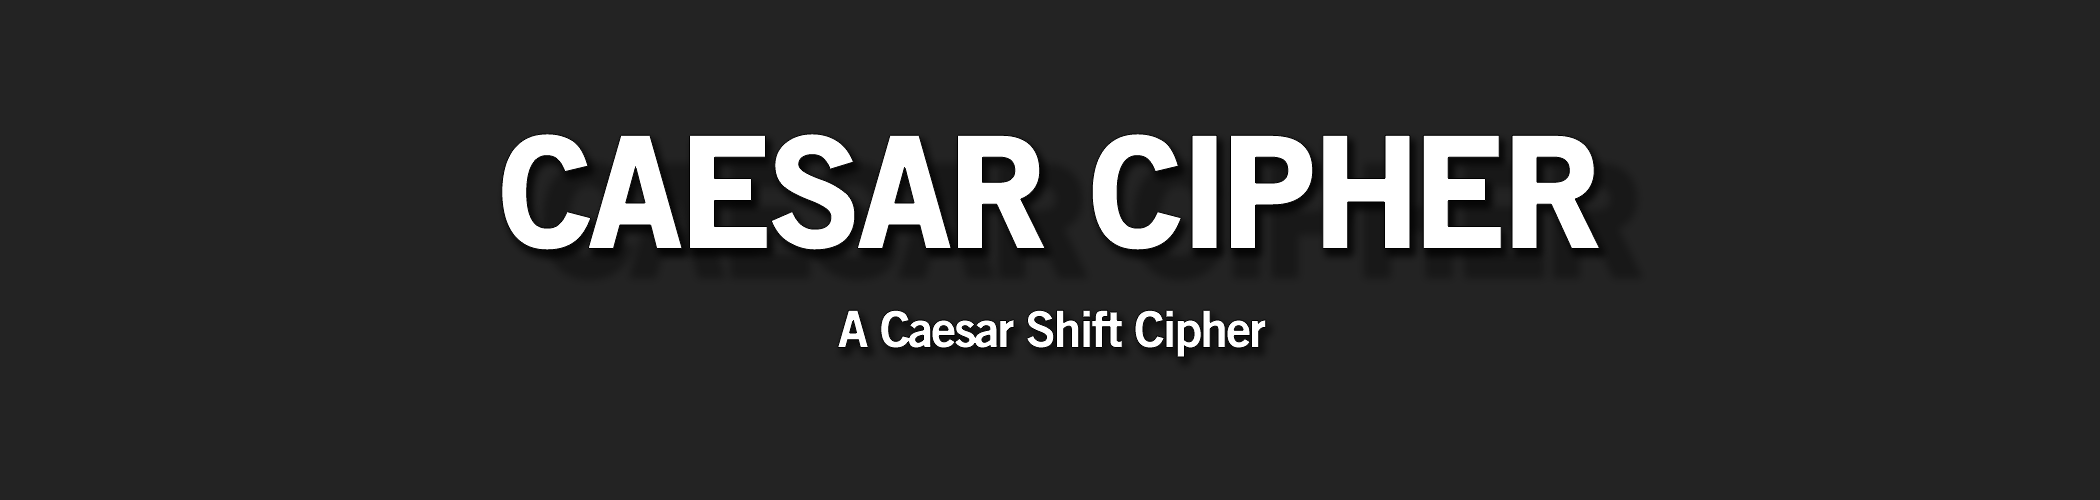
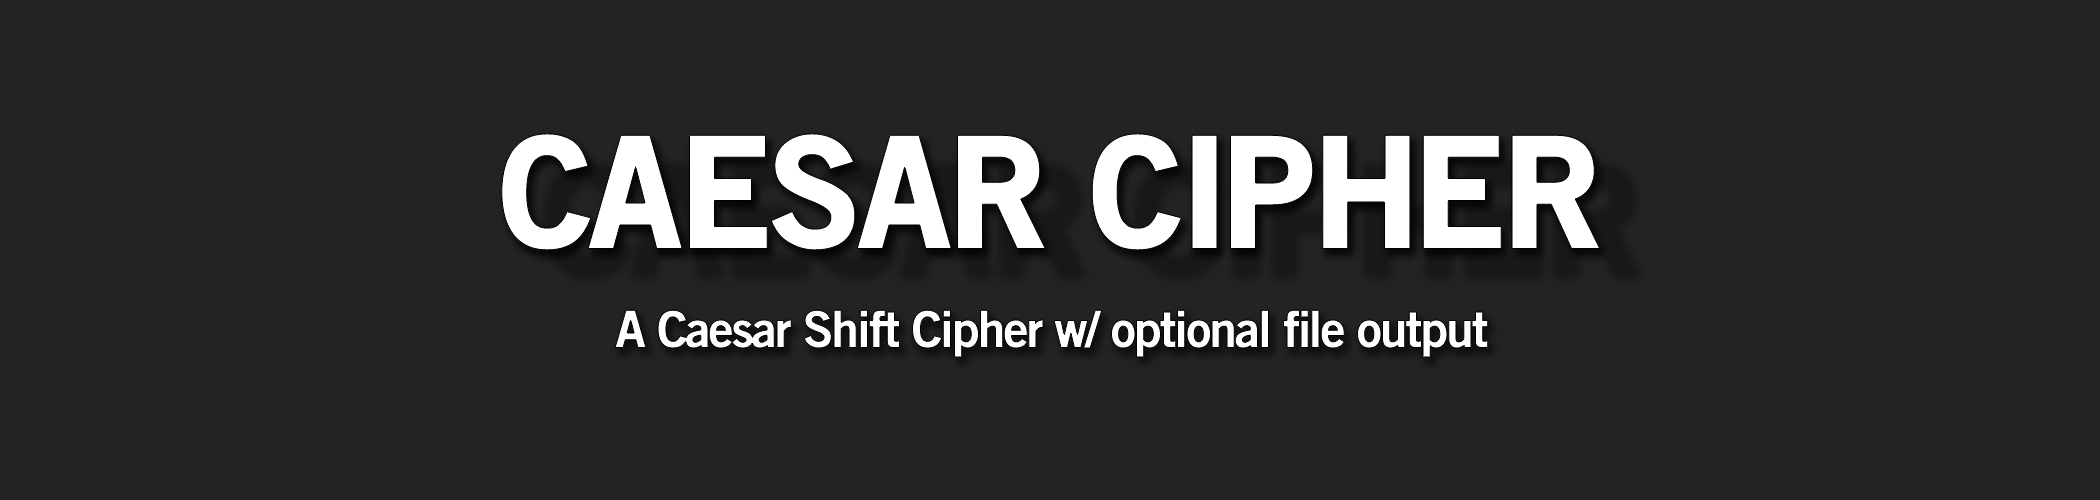
Version 1.1 - The BIG update
Added menu, decryption options (with different letter and number shifts) and file output

Changed region(s): [[0.2786, 0.6, 0.7119, 0.72]]

diff --git a/cipher.py b/cipher.py
@@ -1,29 +1,50 @@
 """
-Title: Application for a simple caesar cipher
+Title: Application for a simple caesar cipher w/ optional file output
 Author: Primus27
-Version: 1.0
+Version: 1.1
 """
 
+# Import packages
+from os import path
+from getpass import getuser
+from sys import exit
+from re import search
+
 # Declare character set
-alpha = "abcdefghijklmnopqrstuvwxyz"
-num = "0123456789"
+alpha_set = "abcdefghijklmnopqrstuvwxyz"
+num_set = "0123456789"
 
 
-def rotate_amount(char_set):
+def yes_no_prompt(feedback):
+    """
+    A yes/no prompt to eliminate repeated code
+    :param feedback: Message to be displayed
+    :return: A response of either yes or no
+    """
+    while True:
+        response = input(feedback.lower())
+        if response == "y" or response == "yes":
+            return True
+        elif response == "n" or response == "no":
+            return False
+
+
+def rotate_prompt(char_set_message):
     """
     Allows user to enter how much a character should be shifted by
-    :param char_set: Declare what character set is targeted
+    :param char_set_message: Declare what character set is targeted (for input)
     :return: The shift for a specific character set
     """
     while True:
         try:
-            shift_val = int(input("Enter a shift for " + char_set + ":"))
+            shift_val = int(input("[?] Enter a shift for {}:"
+                                  .format(char_set_message)))
             if shift_val < 0:
-                print("Shift cannot be less than zero - try again")
+                print("[*] Shift cannot be less than zero.")
             else:
                 return shift_val
         except ValueError:
-            print("Input is not a number - try again")
+            print("[*] Input is not a number.")
 
 
 def shift_char(char, type_char, shift):
@@ -36,46 +57,210 @@ def shift_char(char, type_char, shift):
     """
     uppercase_flag = char.isupper()
     new_index = None  # Current position
-    # Find the current index value of that letter
     for index, item in enumerate(type_char):
         if char.lower() == item:
-            new_index = (index + shift) % len(type_char)  # New index (0-25)
-    # Find the current index value of that letter
+            # New index (e.g. 0-25 for alpha characters)
+            new_index = (index + shift) % len(type_char)
     for index, item in enumerate(type_char):
-        if new_index == index:
+        if new_index == index:  # Map the new index to a character in the list
             if uppercase_flag:
                 return str(item).upper()
             else:
                 return item
 
 
-def encrypt_message(message):
+def output_file(input_message, output_message, shift, decrypt_flag):
     """
-    A function that encrypts the plaintext message
-    :param message: The plaintext message
-    :return: The encrypted message
+    A function to output recent operations to a file
+    :param input_message: The original message - can be plaintext / encrypted
+    :param output_message: The altered message - can be encrypted / plaintext
+    :param shift: The ROT shift value
+    :param decrypt_flag: Whether decryption was performed
     """
-    encrypted_message = ""
-    for char in message:  # Characters in plaintext message
-        if char.lower() in alpha:
-            shifted_char = shift_char(char, alpha, alpha_shift)
-        elif char in num:
-            shifted_char = shift_char(char, num, num_shift)
+    if decrypt_flag:
+        feedback = "encrypted"
+        purpose = "Purpose: Decrypt"
+    else:
+        feedback = "plaintext"
+        purpose = "Purpose: Encrypt"
+
+    print(separator(carriage_pre=True))
+    include_original_flag = yes_no_prompt("[?] Do you want to include the {} "
+                                          "message (y/n)? ".format(feedback))
+
+    username = getuser()
+    f_path = path.join("c:/", "users", username, "desktop", "cipher.txt")
+    shift_formatted = "Shift: {}".format(shift)
+
+    try:
+        with open(f_path, "a") as f:
+            buffer = []
+            # Existing data in file
+            if path.exists(f_path) and path.getsize(f_path) > 0:
+                f.write("\n")
+            if include_original_flag:
+                advanced_output = ["Input:", input_message, "", purpose,
+                                   shift_formatted, ""]
+                buffer.extend(advanced_output)
+            simple_output = ["Output:", output_message, separator(line=True)]
+            buffer.extend(simple_output)
+            # Add a carriage return at end of each value in list
+            f.writelines("%s\n" % line for line in buffer)
+        print("[*] Saved to Desktop")
+    # Inadequate permission to access location
+    except PermissionError:
+        print("[*] Error saving to Desktop- Permission denied")
+    # Could not find desktop
+    except OSError:
+        print("[*] Error saving to Desktop - Path issues")
+        print("Path: {}".format(path))
+
+
+def title_card():
+    """
+    A function to display the title card / credits
+    """
+    print("  _____       _         _   _ _         _   _                _____ _       _               ")
+    print(" / ____|     | |       | | (_) |       | | (_)              / ____(_)     | |              ")
+    print("| (___  _   _| |__  ___| |_ _| |_ _   _| |_ _  ___  _ __   | |     _ _ __ | |__   ___ _ __ ")
+    print(" \___ \| | | | '_ \/ __| __| | __| | | | __| |/ _ \| '_ \  | |    | | '_ \| '_ \ / _ \ '__|")
+    print(" ____) | |_| | |_) \__ \ |_| | |_| |_| | |_| | (_) | | | | | |____| | |_) | | | |  __/ |   ")
+    print("|_____/ \__,_|_.__/|___/\__|_|\__|\__,_|\__|_|\___/|_| |_|  \_____|_| .__/|_| |_|\___|_|   ")
+    print("                                                                    | |                    ")
+    print(" By Primus27                                                        |_|                    ")
+    print()
+
+
+def encrypt_message(file_output_flag, decrypt_flag=False):
+    """
+    A function that encrypts/decrypts the plaintext/encrypted message
+    :param file_output_flag: Whether the message should be saved to a file
+    :param decrypt_flag: A flag for when the function is used for decryption
+    :return: The encrypted/decrypted message
+    """
+    # Input message
+    purpose = "encrypt"
+    if decrypt_flag:
+        purpose = "decrypt"
+    while True:
+        message = input("[?] Please enter a message to {}:".format(purpose))
+        if message != "":
+            break
+
+    # Check message contains elements and input shift
+    if not message.isdigit():  # If message is not only digits
+        alpha_shift = rotate_prompt("letters")
+    else:
+        alpha_shift = 0
+    if bool(search(r'\d', message)):  # Regex. If message contains digits...
+        num_shift = rotate_prompt("numbers")
+    else:
+        num_shift = 0
+
+    # User shift response sanitised for output (no negative values)
+    user_input_shift = (alpha_shift % len(alpha_set), num_shift % len(num_set))
+
+    # Decryption shift correction (if function used for decryption)
+    if decrypt_flag:
+        alpha_shift = len(alpha_set) - alpha_shift
+        num_shift = len(num_set) - num_shift
+
+    # Generate the encrypted/decrypted message
+    new_message = ""
+    for char in message:  # Characters in original message
+        if char.lower() in alpha_set:
+            shifted_char = shift_char(char, alpha_set, alpha_shift)
+        elif char in num_set:
+            shifted_char = shift_char(char, num_set, num_shift)
         else:
             shifted_char = char
-        encrypted_message += shifted_char
-    return encrypted_message
+        new_message += shifted_char
+
+    # Output encrypted message to terminal
+    print(separator(carriage_pre=True))
+    print("{}ed message:".format(purpose.capitalize()))
+    print(new_message)
+
+    # Save to file
+    if file_output_flag:
+        shift = "{a}.{n}".format(a=user_input_shift[0], n=user_input_shift[1])
+        output_file(message, new_message, shift, decrypt_flag)
+
+    # Call main menu
+    print(separator(line=True, carriage_post=True))
+    main_menu(False)
 
 
-# Input plaintext message
-while True:
-    plaintext = input("Please enter a message to encode:")
-    if plaintext != "":
-        break
+def separator(line=False, carriage_pre=False, carriage_post=False):
+    """
+    Function to return ASCII elements to distinguish menu sections
+    :param line: Bool for a dashed line
+    :param carriage_pre: Bool for a carriage return before the line
+    :param carriage_post: Bool for a carriage return after the line
+    """
+    separator_str = ""
+    if carriage_pre:  # Empty print statement does a carriage return
+        separator_str += ""
+    if line:
+        separator_str += "------------------------------------------------" \
+                         "-------------------------------------------"
+    if carriage_post:
+        separator_str += "\n"
+    return separator_str
 
-# Input shift for each element
-alpha_shift = rotate_amount("letters")
-num_shift = rotate_amount("numbers")
 
-# Display encrypted message
-print("Encrypted message:\n" + encrypt_message(plaintext))
+def decrypt_message(file_output_flag):
+    """
+    Function that calls the encrypt message with a flag to perform decryption
+    :param file_output_flag: A flag for whether the message should be saved to
+                            a file (passthrough)
+    """
+    encrypt_message(file_output_flag, True)  # True used as decryption flag
+
+
+def main_menu(file_output_flag):
+    """
+    A function for the main menu / start screen
+    :param file_output_flag: A flag for whether the message should be saved
+                            to a file
+    """
+    file_output_icon = " "
+    if file_output_flag:
+        file_output_icon = "X"
+
+    choice = None
+    available_choices = [1, 2, 3, 4]
+
+    while choice not in available_choices:
+        try:
+            print("1. Encrypt")
+            print("2. Decrypt")
+            print("3. Toggle file output")
+            print("4. Exit")
+            print("[{}] File output".format(file_output_icon))
+            print(separator(carriage_pre=True))
+
+            choice = int(input("[?] Option:"))
+            print(separator(line=True, carriage_post=True))
+
+            if choice == 1:
+                encrypt_message(file_output_flag)
+            elif choice == 2:
+                decrypt_message(file_output_flag)
+            elif choice == 3:
+                if file_output_flag:
+                    main_menu(False)
+                else:
+                    main_menu(True)
+            elif choice == 4:
+                exit("Application closing...")
+            else:
+                print("[*] Input must be a valid number.")
+        except ValueError:
+            print("[*] Input must be a valid number.")
+            print(separator(line=True, carriage_post=True))
+
+
+if __name__ == '__main__':
+    title_card()
+    main_menu(False)

diff --git a/README.md b/README.md
@@ -3,7 +3,14 @@
 # Caesar Shift Cipher
 
 ## Features
+ - Menu & title card
  - Encrypt Message
+ - Decrypt Message
+ - File Output
+ - Displays only relevant message (no prompt to shift numbers if only letters)
+
+![](readme_files/demo.gif)
+> Application demo
 
 ## Requirements and Installation
  - [Python 3.x](https://www.python.org/)
@@ -16,3 +23,11 @@
  - Encrypt a message
     - Specify letter shift
     - Specify number shift
+#### Version 1.1
+ - Added menu
+ - Added decryption option
+    - Specify letter shift
+    - Specify number shift
+ - Added file output
+    - Saves to Desktop (C:\ drive on Windows for current user)
+ - Displays only relevant message (no prompt to shift numbers if only letters)
